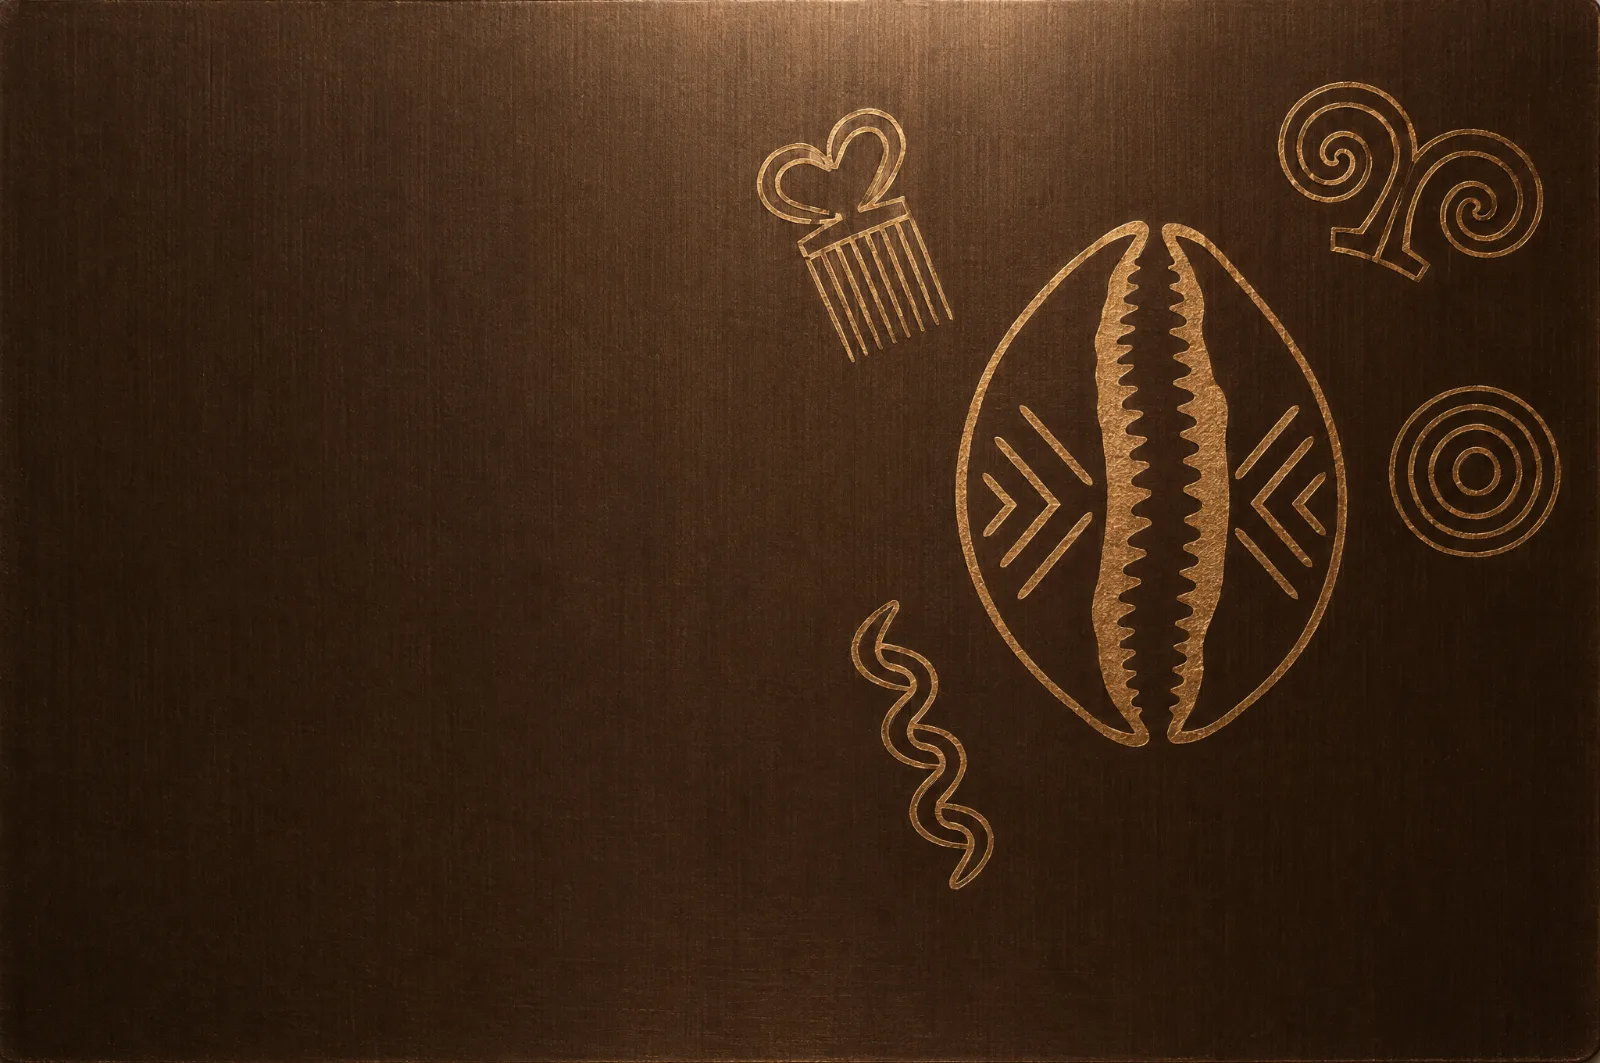
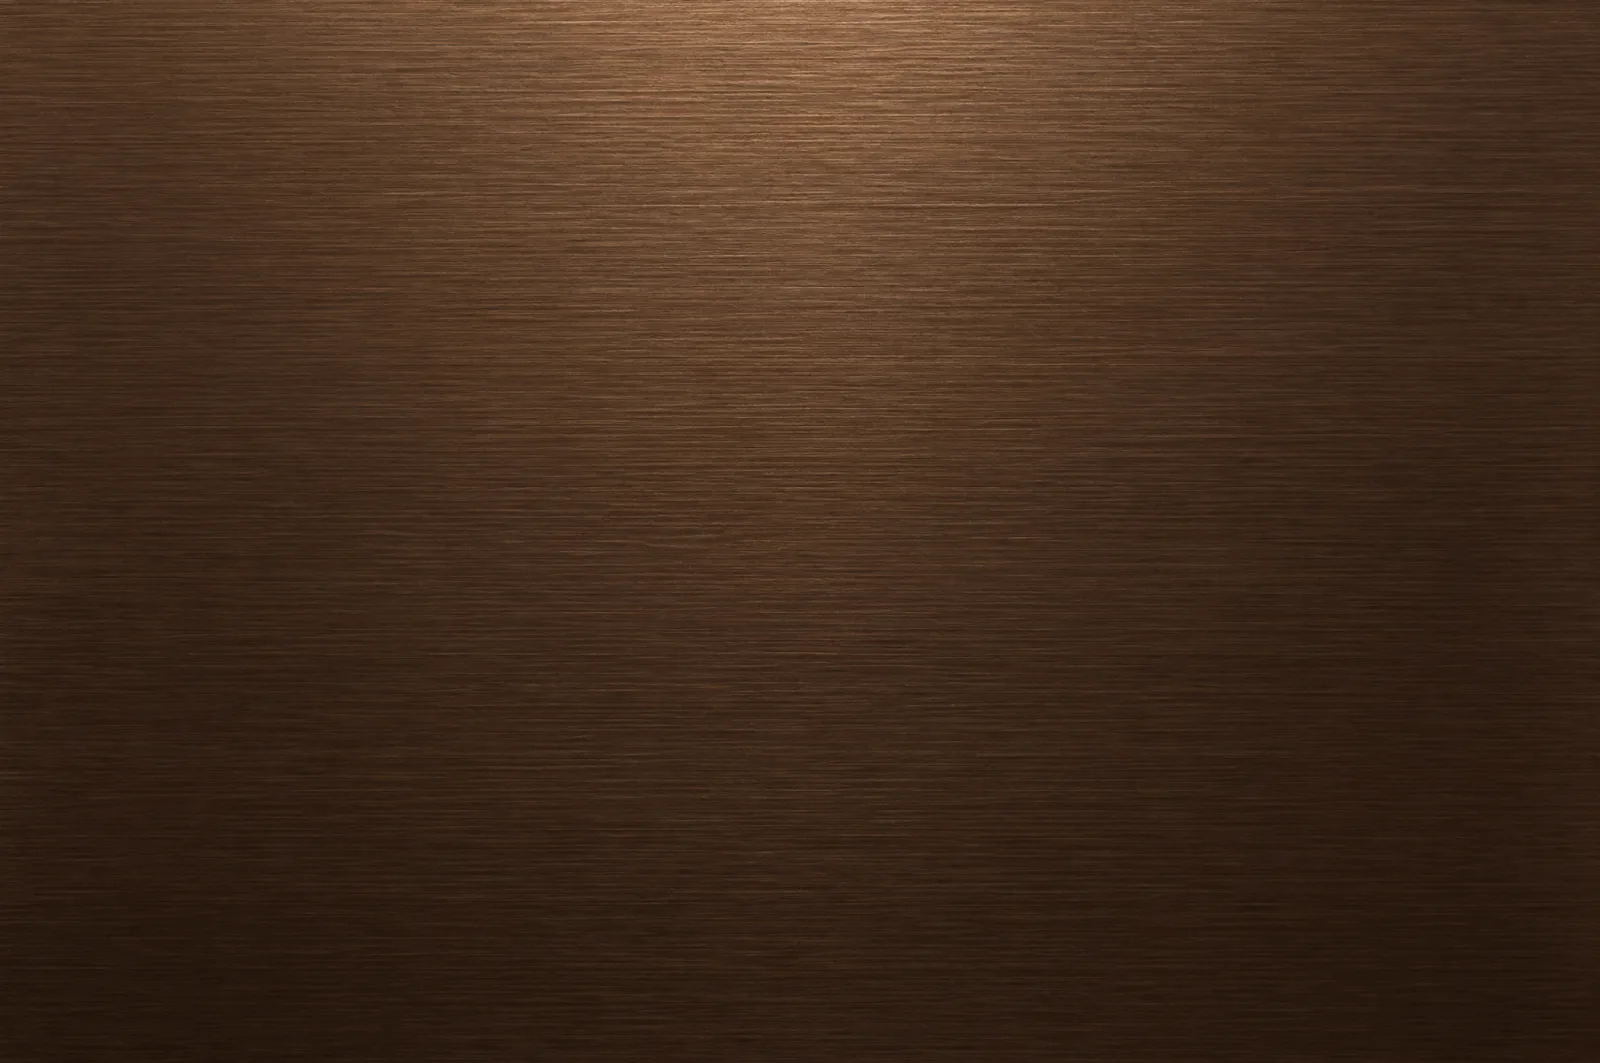
The card's marks are drawn, not rendered, and the « Virtuelle » label is gone
The owner looked at the engraved face and asked for two things: no word on the
card, and symbols with an even shape. The first render had the cowrie and the
Adinkra baked in, hand-drawn, each a little different — a model draws a symbol
the way a hand does, and an engraver the way a machine does.

So the ground is a new render with nothing on it — plain dark brushed metal,
fetched through the artwork workflow and imported as the card slot — and the
marks are CardEngraving, an inline SVG computed where a formula owns the shape:
Dwennimmen is one Archimedean spiral mirrored four ways, Nkyinkyim a sine, the
cowrie's slit a zigzag with every tooth alike, Adinkrahene three circles, Duafe
two equal lobes and five teeth of one length. One stroke width, round joins,
one gold — `--accent-etch`, deeper than the button gold so a line on brushed
brown reads as metal catching light, named in the accent family since it is
the one place outside the ramp allowed the accent's chroma. The label is gone:
the card is the K, the number and the name, and the page's title already says
which account it is.

Verified: 281 unit tests, design check, the card page audited clean at 390 and
1440 in both themes, and all eighteen money flows including freezing the card.

Claude-Session: https://claude.ai/code/session_0169KRSSjajEYunkVuigzQ4Y

diff --git a/src/features/checking/CardEngraving.tsx b/src/features/checking/CardEngraving.tsx
@@ -1,0 +1,115 @@
+/**
+ * The engraving on the virtual card, drawn rather than rendered.
+ *
+ * The first face was a Higgsfield render with the symbols baked in, and the owner pointed
+ * at them: hand-drawn, each one a little different, the comb crooked and the spirals
+ * unequal. « I want the symbols to have an even shape. » A model draws a symbol the way a
+ * hand does; an engraver draws it the way a machine does. So the brushed metal stays a
+ * photograph — the ground is what a render is good at — and the marks on it are vector,
+ * **computed** where they have a shape a formula owns: the spirals of Dwennimmen are one
+ * Archimedean spiral mirrored four ways, the Nkyinkyim is a sine, the cowrie's slit is a
+ * zigzag with every tooth the same. One stroke width, round joins, one gold: even by
+ * construction, and the same at every size because it scales with the card.
+ *
+ * The cowrie is the owner's own print — the slotted underside, serrated, chevrons either
+ * side — and the four Adinkra are the ones on the sheet they sent: Duafe, Dwennimmen,
+ * Adinkrahene, Nkyinkyim. Everything sits on the right half; the type owns the left.
+ */
+import styles from './CardEngraving.module.css'
+
+/** Points on an Archimedean spiral from radius `r0` to `r1` over `turns`, as a path. */
+function spiral(cx: number, cy: number, r0: number, r1: number, turns: number, dir: 1 | -1, flipY: 1 | -1): string {
+  const steps = Math.round(turns * 40)
+  const parts: string[] = []
+  for (let i = 0; i <= steps; i += 1) {
+    const t = i / steps
+    const a = t * turns * Math.PI * 2 * dir
+    const r = r0 + (r1 - r0) * t
+    const x = cx + r * Math.cos(a)
+    const y = cy + flipY * r * Math.sin(a)
+    parts.push(`${i === 0 ? 'M' : 'L'}${x.toFixed(2)},${y.toFixed(2)}`)
+  }
+  return parts.join(' ')
+}
+
+/** A vertical sine wave: the Nkyinkyim's twist, every bend the same. */
+function wave(cx: number, y0: number, y1: number, amp: number, periods: number): string {
+  const steps = periods * 24
+  const parts: string[] = []
+  for (let i = 0; i <= steps; i += 1) {
+    const t = i / steps
+    const y = y0 + (y1 - y0) * t
+    const x = cx + amp * Math.sin(t * periods * Math.PI * 2)
+    parts.push(`${i === 0 ? 'M' : 'L'}${x.toFixed(2)},${y.toFixed(2)}`)
+  }
+  return parts.join(' ')
+}
+
+/** A vertical zigzag between `y0` and `y1`: the cowrie's serrated lip. */
+function zigzag(x: number, y0: number, y1: number, amp: number, teeth: number, side: 1 | -1): string {
+  const parts: string[] = [`M${x.toFixed(2)},${y0.toFixed(2)}`]
+  for (let i = 1; i <= teeth * 2; i += 1) {
+    const y = y0 + ((y1 - y0) * i) / (teeth * 2)
+    const dx = i % 2 === 1 ? amp * side : 0
+    parts.push(`L${(x + dx).toFixed(2)},${y.toFixed(2)}`)
+  }
+  return parts.join(' ')
+}
+
+/** Four spirals about a centre, mirrored so the ram's horns curl outward on every side. */
+function dwennimmen(cx: number, cy: number, spread: number, r: number): string[] {
+  const out: string[] = []
+  for (const sx of [-1, 1] as const) {
+    for (const sy of [-1, 1] as const) {
+      const dir = (sx * sy) as 1 | -1
+      out.push(spiral(cx + sx * spread, cy + sy * spread, 1.2, r, 1.6, dir, sy))
+    }
+  }
+  return out
+}
+
+const COWRIE = { cx: 292, cy: 126, rx: 48, ry: 68, slit: 5, teeth: 14, amp: 3.2 }
+
+export function CardEngraving() {
+  const c = COWRIE
+  return (
+    <svg className={styles.engraving} viewBox="0 0 400 252" aria-hidden="true" focusable="false">
+      <g fill="none" stroke="var(--accent-etch)" strokeWidth="2" strokeLinecap="round" strokeLinejoin="round">
+        {/* Cowrie: the shell, the serrated slit, the chevrons and their dots. */}
+        <ellipse cx={c.cx} cy={c.cy} rx={c.rx} ry={c.ry} />
+        <path d={zigzag(c.cx - c.slit, c.cy - c.ry + 14, c.cy + c.ry - 14, c.amp, c.teeth, -1)} />
+        <path d={zigzag(c.cx + c.slit, c.cy - c.ry + 14, c.cy + c.ry - 14, c.amp, c.teeth, 1)} />
+        {[-1, 1].map((s) => (
+          <g key={s}>
+            <path d={`M${c.cx + s * 34},${c.cy - 26} L${c.cx + s * 22},${c.cy - 14} L${c.cx + s * 34},${c.cy - 2}`} />
+            <path d={`M${c.cx + s * 34},${c.cy + 2} L${c.cx + s * 22},${c.cy + 14} L${c.cx + s * 34},${c.cy + 26}`} />
+            <circle cx={c.cx + s * 40} cy={c.cy + 38} r="1.6" fill="var(--accent-etch)" stroke="none" />
+          </g>
+        ))}
+
+        {/* Duafe, the comb: two even lobes on a bar, five teeth of one length. */}
+        <circle cx="231" cy="30" r="6.5" />
+        <circle cx="245" cy="30" r="6.5" />
+        <path d="M238,36 L238,42" />
+        <rect x="222" y="42" width="32" height="8" rx="2" />
+        {[225, 231.5, 238, 244.5, 251].map((x) => (
+          <path key={x} d={`M${x},50 L${x},70`} />
+        ))}
+
+        {/* Dwennimmen, the ram's horns: one spiral, mirrored four ways, a diamond between. */}
+        {dwennimmen(354, 46, 11, 8).map((d) => (
+          <path key={d} d={d} />
+        ))}
+        <path d="M354,42 L358,46 L354,50 L350,46 Z" />
+
+        {/* Adinkrahene: three circles, one centre. */}
+        <circle cx="365" cy="126" r="6" />
+        <circle cx="365" cy="126" r="13" />
+        <circle cx="365" cy="126" r="20" />
+
+        {/* Nkyinkyim: a twist with every bend alike. */}
+        <path d={wave(230, 150, 236, 9, 2.5)} />
+      </g>
+    </svg>
+  )
+}

diff --git a/src/features/checking/VirtualCard.tsx b/src/features/checking/VirtualCard.tsx
@@ -10,12 +10,14 @@
  * the foot left plain because that is where the type sits. The gradient stays underneath
  * as the ground: with the slot switched off the card is exactly what it was.
  *
- * The « Virtuelle » label moved from the top-right to beside the mark, because the
- * top-right corner is where the engraving is, and a label over an engraving is a label
- * nobody can read — the contrast audit measures it against the picture's own pixels.
+ * There is no « Virtuelle » label on it. The owner asked for the word to go: the card is
+ * the K, the number and the name, the way a real one is, and the screen's own title
+ * already says which account it belongs to. The symbols are drawn, not rendered — see
+ * `CardEngraving` for why.
  */
 import type { Card } from '@/api/types'
 import { Badge, Icon, Photo, Skeleton, Wordmark } from '@/components'
+import { CardEngraving } from './CardEngraving'
 import { cn } from '@/lib/cn'
 import styles from './VirtualCard.module.css'
 
@@ -32,10 +34,12 @@ export function VirtualCard({ card, className }: { card: Card; className?: strin
       {/* Frozen dims the engraving with the type: a face that stayed lit under greyed
           figures read as a card with a fault, not a card put on hold. */}
       <Photo name="card" className={cn(styles.art, frozen && styles.faded)} sizes="(min-width: 432px) 400px, calc(100vw - 32px)" />
+      <div className={cn(styles.etch, frozen && styles.faded)}>
+        <CardEngraving />
+      </div>
       <div className={cn(styles.face, frozen && styles.faded)}>
         <div className={styles.top}>
           <Wordmark glyphOnly tone="paper" className={styles.mark} />
-          <span className={styles.kind}>Virtuelle</span>
         </div>
         <div className={styles.bottom}>
           <p className={styles.number} aria-label={frozen ? 'Numéro masqué' : `Carte se terminant par ${card.last4.split('').join(' ')}`}>

diff --git a/src/lib/photos.ts b/src/lib/photos.ts
@@ -83,9 +83,9 @@ export const PHOTOS = {
   card: {
     name: 'card',
     intent:
-      'The face of the virtual card, under the K disc, the last four digits and the holder’s name. A dark brown brushed-metal card lit by one warm light, engraved in fine gold line the way a metal card is laser-etched: a cowrie shell from its slotted underside on the right half, with Adinkra symbols — Duafe, Dwennimmen, Adinkrahene, Nkyinkyim — scattered around it like the doodles on a Revolut metal card. The left third and the bottom band stay plain, because that is where the type sits.',
+      'The ground of the virtual card, under the K disc, the last four digits and the holder’s name: a plain dark brown brushed-metal card face lit by one warm light from the top, with nothing on it at all. The engraving — the cowrie and the four Adinkra symbols — is drawn by CardEngraving over this picture, so the picture must carry no marks of its own: a rendered symbol is a hand’s symbol, and the owner asked for even ones.',
     present: true,
-    alt: 'Face de carte en métal brun brossé, gravée à l’or d’un cauri et de symboles adinkra',
+    alt: 'Face de carte en métal brun brossé, sans inscription',
     credit: 'Rendu commandé par le propriétaire sur son compte Higgsfield (GPT Image) — libre d’utilisation dans l’application',
     widths: [800, 1600],
     /* The picture is 3:2 and the card is 1.586:1, so the crop is vertical only; centred, the

diff --git a/src/features/checking/VirtualCard.module.css b/src/features/checking/VirtualCard.module.css
@@ -34,6 +34,13 @@
   position: absolute;
   inset: 0;
 }
+/* The drawn marks, between the metal and the type; dimmed with both when frozen. */
+.etch {
+  position: absolute;
+  inset: 0;
+  z-index: 0;
+  transition: opacity var(--dur-smooth) var(--ease-smooth);
+}
 .face {
   position: relative;
   z-index: 1;
@@ -46,25 +53,15 @@
 .faded {
   opacity: 0.55;
 }
-/* Mark and label together at the left, where the metal is plain; the engraving owns the
-   right of the card and a label over it would be a label nobody can read. */
 .top {
   display: flex;
   align-items: center;
-  gap: var(--sp-3);
 }
 /* The disc manages its own two colours; overriding `color` here painted the K in the
    same ink as the disc and made it vanish. */
 .mark {
   width: 28px;
   height: 28px;
-}
-.kind {
-  font-size: var(--fs-label);
-  line-height: var(--lh-label);
-  letter-spacing: var(--ls-label);
-  font-weight: var(--fw-label);
-  color: var(--card-ink-muted);
 }
 .bottom {
   display: flex;

diff --git a/src/styles/tokens.css b/src/styles/tokens.css
@@ -20,6 +20,11 @@
 
   --accent: oklch(0.45 0.085 72);          /* links, ghost buttons, focus rings */
   --accent-text: oklch(0.38 0.080 70);     /* accent used as text on --accent-soft */
+  /* The gold the virtual card is engraved in. Deeper than --cta so a stroke on brushed
+     brown reads as metal catching light rather than as a button's fill; the same in both
+     themes, because the card is. Named in the accent family since it is the one place
+     outside the accent ramp that is allowed the accent's chroma. */
+  --accent-etch: oklch(0.78 0.105 84);
   --accent-soft: oklch(0.93 0.048 90);     /* badge background / selected state */
   --on-accent: oklch(0.99 0.006 90);       /* text placed on --accent */
 

diff --git a/src/features/checking/CardEngraving.module.css b/src/features/checking/CardEngraving.module.css
@@ -1,0 +1,10 @@
+/* Over the metal, under the type. The viewBox is the card's own proportions, so the marks
+   scale with it and a stroke is the same weight at 320px as at 400. */
+.engraving {
+  position: absolute;
+  inset: 0;
+  width: 100%;
+  height: 100%;
+  z-index: 0;
+  pointer-events: none;
+}

diff --git a/CLAUDE.md b/CLAUDE.md
@@ -173,7 +173,7 @@ and the old wordmark only escaped that by shipping as outlines rather than as ty
 - **The front door is the sign-in.** The owner put the reference beside ours and asked for the same, and the difference was not the anatomy — that was already taken — but what the sheet *carries*: theirs holds the login, ours held three buttons, one of which led to a screen that held the login. Signing in is the front door for the person the app is for, and a button that leads to a door is a hallway. `/bienvenue` now carries the address and the code as two **pill fields** (`pill` on `Field`: `--r-pill`, and `--control-lg` tall, because a 44px control has to sit *inside* one with air on both sides), each with a **bare icon** at its head — the disc under it was tried and the owner read it as a shadow — the code's field carrying **« Recevoir » as a pill at the end of its own line** — the reference's « I forgot », which is the same situation: a field that cannot be filled until that pill is pressed. It reads « Renvoyer » after the first send, and only for the address it was sent to. The in-field pill is ink, the reference's own colour for it; **the call to action stays gold**, because the brand outranks the kit and two gold fills on one sheet would say nothing about which to press. Enter does the next thing, whichever it is. A right code with no account behind it goes to `/inscription`, which resumes from the state the server just opened — nobody is told « wrong address » for an address that is simply new. « Créer un compte » is a text action under the button, and the demo is a line in the footer. `/inscription/courriel` stays as the wizard's own first step, since the wizard still needs one.
 - **The photograph is the welcome screen's underlay, with nothing poured over it.** The owner asked for the image expanded under the sign-in, then for « the shadow on top » to go — the deep dissolve that carried the page colour down over the picture so the type could sit on it, which in the dark theme read as a wash over the top of the photograph. There is no dissolve on this frame now: the picture runs clean to the top edge, and the word, the mark and the sentence sit **on the picture itself, in the virtual card's ink** (`--card-ink` / `--card-ink-muted`, the paper disc pinned with `tone="paper"`), because the corridor the brief keeps dark is the same ground in both themes and dark ink on it would vanish in the light one. **The frame stops at 95% of the screen** (`inset: 0 0 5%`; on the desktop column, at the root's padding plus the sheet's radius, or a sliver of picture peeks under the sheet's rounded foot): `cover` scales the picture to the frame, so the frame's height is the one dial that places the mask's crown — at 80% the crown reached the sentence's second line once a notch pushed the type down, and the audit read pale ink against pale cowries at 1.02:1. **The sentence is one line** (« Votre argent, réuni. ») for the same reason: with 95% of frame it clears the crown by sixteen pixels under a notch, and the whole face — rows 31–51% of the file — sits above the sheet. **And the sign-in stays on the first screen** — the document is exactly 844px on an 844px phone, which the flows suite asserts. The image is free for anyone to use, on the owner's word, and the credit says so; the photographer is still unnamed.
 - **Text over a photograph with nothing over it is measured against the photograph's own pixels.** A bare frame used to be « unmeasurable », which was honest while the floor had to hold for any picture that might land in the slot. The picture is committed now — a test refuses a placeholder, and the audit runs on the very bytes that ship — so `photoFloor` draws the frame's `<img>` to a canvas at natural size, maps the text's **line boxes** (`Range.getClientRects`, not the element box: the title's box is 24ch wide and reached the warm lamp at the end of the corridor, which the first version reported as 1.01:1 for a sentence whose lines both end before it) into the image through `object-fit: cover` and the slot's `object-position`, and takes the pixel the ink loses against hardest. An audit reports the floor. Falsified: the title set in `--card-surface` is flagged at 1.00:1 against the corridor. A frame with a scrim or a dissolve is still measured through the ramp, over black and white, taking the worse; and the walk through `elementsFromPoint` stops at the first *ancestor* that paints an opaque fill, because a photograph under an opaque sheet is one nobody sees.
-- **The virtual card's face is engraved artwork, and it came in through GitHub.** The owner put a Revolut metal card beside a cowrie print and a sheet of Adinkra symbols and asked for the same. The face is the `card` photo slot: brushed brown metal rendered on the owner's Higgsfield account (GPT Image, three variants, the gold-etched one chosen), a cowrie from its slotted underside with Duafe, Dwennimmen, Adinkrahene and Nkyinkyim etched around it on the right half, the left third and the foot left plain **because that is where the type sits**. It renders as a `Photo` under `.face`, with the gradient still painted beneath as the ground, so a card with the slot off is exactly the card that shipped before. « Virtuelle » moved from the top-right to beside the mark, since the top-right is where the engraving is and a label over an engraving fails against the picture's own pixels — which the audit now measures. The source PNG is kept in `brand-src/card/`, not served. **The bytes could not be downloaded here** — the build sandbox's proxy refuses every image host, CloudFront and a Vercel sandbox alike — so `.github/workflows/fetch-artwork.yml` exists: dispatched by hand with URLs, a runner downloads them under `brand-src/` and commits, and the importer takes it from there. A workflow is only dispatchable once it exists on the default branch, which is why it was merged before it was run.
+- **The virtual card is brushed metal with the marks drawn on it, and the metal came in through GitHub.** The owner put a Revolut metal card beside a cowrie print and a sheet of Adinkra symbols and asked for the same. The ground is the `card` photo slot: a plain dark brushed-brown metal rendered on the owner's Higgsfield account (GPT Image), with nothing on it — the first face had the symbols baked into the render and the owner pointed at them: hand-drawn, each one a little different, « I want the symbols to have an even shape ». A model draws a symbol the way a hand does; an engraver draws it the way a machine does. So the marks are `CardEngraving`, an inline SVG **computed** where a formula owns the shape — Dwennimmen is one Archimedean spiral mirrored four ways, Nkyinkyim a sine, the cowrie's slit a zigzag with every tooth alike, Adinkrahene three circles, Duafe two equal lobes and five teeth of one length — in one stroke width, round joins, one gold (`--accent-etch`, deeper than `--cta` so a line on brushed brown reads as metal catching light; named in the accent family because it is the one place outside the ramp allowed the accent's chroma). Everything sits on the right half; the type owns the left. **There is no « Virtuelle » label** — the owner asked for the word to go; the card is the K, the number and the name, and the page's title already says which account. The gradient is still painted under the photo as the ground, so a card with the slot off is the card that shipped before; frozen dims metal, marks and type together. The source PNG stays in `brand-src/card/`, not served. **The bytes could not be downloaded here** — the build sandbox's proxy refuses every image host, CloudFront and a Vercel sandbox alike — so `.github/workflows/fetch-artwork.yml` exists: dispatched by hand with URLs, a runner downloads them under `brand-src/` and commits, and the importer takes it from there. A workflow is only dispatchable once it exists on the default branch, which is why it was merged before it was run.
 - **The one heading at the body weight.** The reference sets its welcome line thin, and a 600 sentence over a photograph is a headline where a greeting is wanted. `.title` on this screen takes `--fw-body` with `--ls-body`, since negative heading tracking is what keeps a demi sentence from spreading and reads pinched on a light one. It is the one heading in the app that is not about anything — it is hello — and that is the whole of why it is allowed.
 - **The welcome screen's anatomy comes from the owner's reference**: one word across the top with the theme control (the row opened with « Keewal Meere » as a label and the owner asked for it to go — the brand on this screen is the K, and a name typed beside the mark was a second wordmark nobody drew; the toggle keeps its 44px hit area and draws a 32px disc inside it, because the full disc was too big for a preference in a corner), the monogram and the sentence, a **full-bleed** hero, and a rounded sheet riding up over the frame carrying the actions. The hero is unrounded on purpose — it was inset in the gutter at `--r-panel` with the sheet's `--r-sheet` directly under it, two radii arguing at the one seam the eye is already on. A hero is the element that bleeds; the only rounding in the composition is the sheet riding over it.
 
